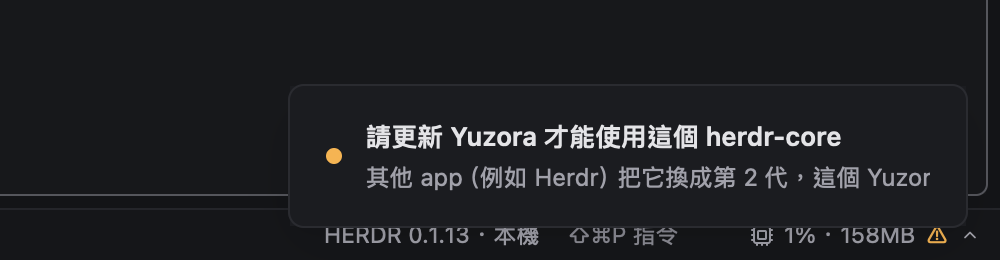
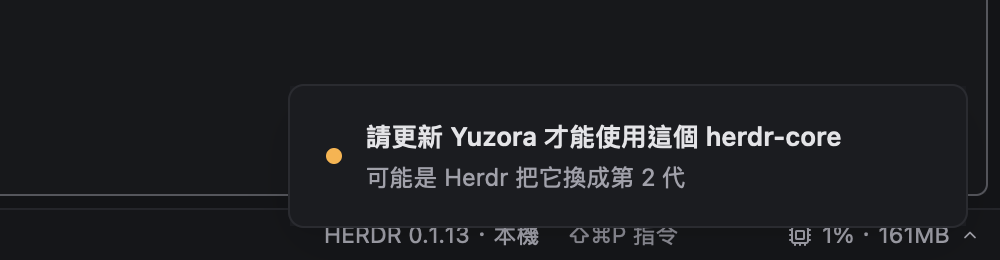
fix(app): the refused-core toast fits its one line and opens Updates
Review: the toast mod truncates title and body to one line each (340 px),
so the body's fix (hc update, the Releases link) was never visible. The
title now says what to update, the body why in one line, and a click
opens Settings > Updates, where herdr-core and Yuzora are updated. A test
keeps both lines within the toast's width (fails on the old text).
Docs: hc update crosses generations with --force; the app reaches
releases.herdr.dev only through the core channel D3 keeps.

Changed region(s): [[0.341, 0.6462, 0.93, 0.7385], [0.744, 0.8615, 0.961, 0.9538]]

diff --git a/app/src/yuzora/herdr_compat.rs b/app/src/yuzora/herdr_compat.rs
@@ -71,18 +71,17 @@ fn serves_in(c: &Catalog, hello: &Value, told: &mut Option<Mismatch>) -> Result<
     if told.as_ref() == Some(&mismatch) {
         return Err(None);
     }
-    let waits = ("waits", c.t("refused.waits", &[]));
+    // The toast shows one line of each: the title says what to update, the body why.
     let (title, body) = match &mismatch {
-        Mismatch::TooOld { have, need } => (c.t("refused.old.title", &[]), c.t("refused.old.body", &[("have", have.clone()), ("need", need.clone()), waits])),
-        Mismatch::Missing(methods) => (c.t("refused.missing.title", &[]), c.t("refused.missing.body", &[("methods", methods.join(", ")), waits])),
-        Mismatch::Newer { generation } => (
-            c.t("refused.newer.title", &[]),
-            c.t("refused.newer.body", &[("generation", generation.to_string()), ("ours", GENERATION.to_string()), ("app", super::RELEASES_URL.into()), waits]),
-        ),
+        Mismatch::TooOld { have, need } => (c.t("refused.old.title", &[]), c.t("refused.old.body", &[("have", have.clone()), ("need", need.clone())])),
+        Mismatch::Missing(methods) => (c.t("refused.missing.title", &[]), c.t("refused.missing.body", &[("methods", methods.join(", "))])),
+        Mismatch::Newer { generation } => (c.t("refused.newer.title", &[]), c.t("refused.newer.body", &[("generation", generation.to_string())])),
     };
     *told = Some(mismatch);
     // Up while Yuzora stays disconnected (a day, or until clicked): it's why the panes wait.
-    Err(Some(json!({"kind": "toast", "notification": {"title": title, "body": body, "level": "error", "timeout": 86_400_000}})))
+    // A click opens Updates, where both the core and Yuzora are updated.
+    let updates = json!({"name": "app.settings", "args": {"section": "updates"}});
+    Err(Some(json!({"kind": "toast", "notification": {"title": title, "body": body, "level": "error", "timeout": 86_400_000, "action": updates}})))
 }
 
 #[cfg(test)]
@@ -93,8 +92,15 @@ mod tests {
         [Catalog::from_json(EN, None), Catalog::from_json(EN, Some(ZH_TW))]
     }
 
+    const USES_BUT_ONE: &[&str] = &["terminal.run", "terminal.list", "terminal.kill", "terminal.label", "terminal.attach", "terminal.keep", "doc.get", "doc.set"];
+
     fn hello(generation: u64, version: &str) -> Value {
         json!({"generation": generation, "version": version, "methods": crate::hc::USES})
+    }
+
+    /// About how wide a line is in the toast: CJK and fullwidth count twice.
+    fn width(text: &str) -> usize {
+        text.chars().map(|c| if c as u32 >= 0x2E80 { 2 } else { 1 }).sum()
     }
 
     fn keys(json: &str) -> Vec<String> {
@@ -153,15 +159,24 @@ mod tests {
             assert_eq!(newer["kind"], "toast");
             assert_eq!(note["level"], "error");
             assert!(note["timeout"].as_u64().unwrap() >= 3_600_000, "stays while Yuzora waits");
+            assert_eq!(note["action"], json!({"name": "app.settings", "args": {"section": "updates"}}), "a click opens Updates");
             assert!(note["title"].as_str().unwrap().contains("Yuzora"));
             let body = note["body"].as_str().unwrap();
-            assert!(body.contains("Herdr") && body.contains(crate::yuzora::RELEASES_URL) && !body.contains('{'), "{body}");
+            assert!(body.contains("Herdr") && body.contains('2') && !body.contains('{'), "{body}");
             assert_eq!(serves_in(c, &hello(GENERATION + 1, "9.9.9"), &mut told), Err(None), "the same mismatch again: no new toast");
 
-            let old = serves_in(c, &hello(GENERATION, "0.0.1"), &mut told).unwrap_err().expect("another mismatch: a toast");
-            assert!(old["notification"]["body"].as_str().unwrap().contains("0.0.1"));
-            let missing = serves_in(c, &json!({"generation": GENERATION, "version": "9.9.9", "methods": []}), &mut told).unwrap_err().expect("a toast");
-            assert!(missing["notification"]["body"].as_str().unwrap().contains("doc.set"));
+            let old = serves_in(c, &hello(GENERATION, "0.1.10"), &mut told).unwrap_err().expect("another mismatch: a toast");
+            assert!(old["notification"]["body"].as_str().unwrap().contains("0.1.10"));
+            let missing = serves_in(c, &json!({"generation": GENERATION, "version": "9.9.9", "methods": USES_BUT_ONE}), &mut told).unwrap_err().expect("a toast");
+            assert!(missing["notification"]["body"].as_str().unwrap().contains("events.subscribe"));
+            // The toast truncates title and body to one line each (mods/toast, 340 px):
+            // what to do and why must fit, or the person never reads it.
+            for toast in [&newer, &old, &missing] {
+                for (part, max) in [("title", 42), ("body", 44)] {
+                    let text = toast["notification"][part].as_str().unwrap();
+                    assert!(width(text) <= max, "{part} too long for one line: {text}");
+                }
+            }
             assert_eq!(serves_in(c, &hello(GENERATION, "9.9.9"), &mut told), Ok(true), "a core that serves is used again; close the toast");
             assert_eq!(told, None);
         }

diff --git a/docs/beta2/herdr-compat.md b/docs/beta2/herdr-compat.md
@@ -69,7 +69,7 @@ core 的資料都放在 `$XDG_STATE_HOME/herdr-core/<session>/`：`docs.json`、
 | `hc server stop` | 兩個 app 的重連迴圈每秒執行一次 `hc connect`，而 `hc connect` 在沒有 core 時會啟動 core（`app/src/hc.rs:275`）。實測停止後約 1 秒，core 就被 Herdr.app 的 `hc connect` 重新啟動（新 pid 97885，父行程是 Herdr）。**程式全部結束**：kept 的 `t1` 換成新 shell（pid 95144 → 97894），非 kept 的終端機則結束 |
 | 關閉其中一個 app | core 繼續執行（實測結束 Herdr.app 後，core pid 97885 沒變，改由 launchd 收養） |
 | `hc update`（同一代） | 等同 restart，程式不中斷，另一個 app 自動重連 |
-| 升級到新一代（generation） | `hc update` 不會跨代，除非加 `--force`；要跨代只能重新安裝。之後舊代的 app 不能用這個 core（見 A3） |
+| 升級到新一代（generation） | `hc update` 預設不跨代；要跨代得加 `--force`（`hc update --help`：允許另一代的 release），或重新安裝。app 自己的更新路徑都不帶 `--force`。換代之後，舊代的 app 不能用這個 core（見 A3） |
 
 結論：
 
@@ -139,8 +139,13 @@ core 的資料都放在 `$XDG_STATE_HOME/herdr-core/<session>/`：`docs.json`、
 - core 重啟後，新連上的 core 也要通過 `hc::check`，和啟動時相同。
 - 不通過時：
   - 不接上這個 core，丟掉這條連線。
-  - 顯示錯誤 toast（固定 id `yuzora-core-refused`），說明原因和解法：更新 core（`hc update`），或更新 Yuzora。若是「core 比較新」，會指出可能是 Herdr 更新的。
-  - toast 會一直留著，直到 core 恢復或使用者點掉。一般 error toast 8 秒就消失，但 Yuzora 這段時間一直處於斷線狀態，pane 只顯示「reconnecting to core…」，所以原因要一直看得到。同一種不符不重複顯示；換成另一種不符時，改顯示新的內容。
+  - 顯示錯誤 toast（固定 id `yuzora-core-refused`）：
+    - 標題寫要更新哪一個，例如「請更新 herdr-core 才能使用 Yuzora」「請更新 Yuzora 才能使用這個 herdr-core」。
+    - 內文用一行寫原因，例如「目前是 0.1.10，Yuzora 需要 0.1.11 以上」「可能是 Herdr 把它換成第 2 代」。
+    - toast mod 的標題和內文都只顯示一行，放不下的字會被截掉，所以測試會檢查兩者的寬度。
+  - 點 toast 會開啟設定的 Updates 頁（`app.settings {section: "updates"}`），在那裡可以更新 herdr-core，也可以檢查 Yuzora 的更新。
+  - toast 會一直留著，直到 core 恢復或使用者點掉。一般 error toast 8 秒就消失，但這段時間 Yuzora 一直處於斷線狀態，pane 只顯示「reconnecting to core…」，所以原因要一直看得到。
+  - 同一種不符不重複顯示，點掉之後也不再出現；換成另一種不符時，改顯示新的內容。
   - 改成每 5 秒重試一次，不再每秒重試。
 - core 被修好（更新或換回）之後，Yuzora 會自動接上，並收掉 toast。
 - 通過時行為完全不變。
@@ -217,7 +222,7 @@ app/scripts/yuzora/sync-check --quick    # 只跑 1–4 與掃描
 3. **Herdr.app**：讀 `https://releases.herdr.dev/app/latest.json` 的版本，列入報告。這只是參考，用來知道使用者的 Herdr 可能已經要求較新的 core。
 4. 結果寫成一則 issue（標 `needs-triage`），同一個上游 commit 不重複開。
 
-CI 連到 herdr.dev 只發生在 CI，不影響 app 的 D3（app 本身不連）。
+CI 連到 herdr.dev 只發生在 CI，不會讓 app 多連任何地方。app 本身只透過 D3 保留的 core 安裝與更新通道連到 `releases.herdr.dev`：`core/latest.json`，以及 `after_update`、setup 的安裝。
 
 ## 待決策（會改變產品行為，由使用者決定）
 

diff --git a/app/CHANGELOG.md b/app/CHANGELOG.md
@@ -10,7 +10,7 @@
 - 模式列顯示各模式的徽章數；tab 列每個 tab 帶 Space 徽章與狀態，「＋ 新增 pane」可把工具 pane、終端機、Agent 混合分割進同一個 tab。
 - pane 標頭與外框：focus 時邊框變亮，Agent 需要回覆時邊框與標頭轉為琥珀色；狀態列顯示 pane／Space／Agent 數、需要回覆數、目前分支 ↑↓ 與 HERDR 版本。
 - 歡迎、新功能、意見回饋畫面改為 Yuzora 品牌；介面字型改用系統字型。
-- 與官方 Herdr 共用 herdr-core 時：版本不符的畫面改用 Yuzora 的名稱並說明 core 是共用的；core 重新啟動後若變成 Yuzora 不能用的版本（例如 Herdr 換成新一代），Yuzora 不會接上，並一直顯示原因與解法，恢復後自動重連。
+- 與官方 Herdr 共用 herdr-core 時：版本不符的畫面改用 Yuzora 的名稱並說明 core 是共用的；core 重新啟動後若變成 Yuzora 不能用的版本（例如 Herdr 換成新一代），Yuzora 不會接上，並一直顯示原因（點一下開啟更新頁），恢復後自動重連。
 - SSH / SFTP 模式：列出 ~/.ssh/config、Yuzora 自建主機與 herdr machines，顯示連線狀態與延遲；首次連線確認主機金鑰指紋，金鑰變更時警告。
 - SFTP 雙欄傳輸：本機 ↔ 主機各自瀏覽，→／← 或拖放傳輸，佇列顯示進度與速度，可取消、重試並從中斷處續傳，可保留權限與時間；遠端檔案可在本機文字編輯器開啟，存檔時自動上傳。
 - 主機快速動作：開啟 SFTP、新終端機、HERDR Session、已知主機管理；資料庫可透過 SSH tunnel 連到主機後方。
